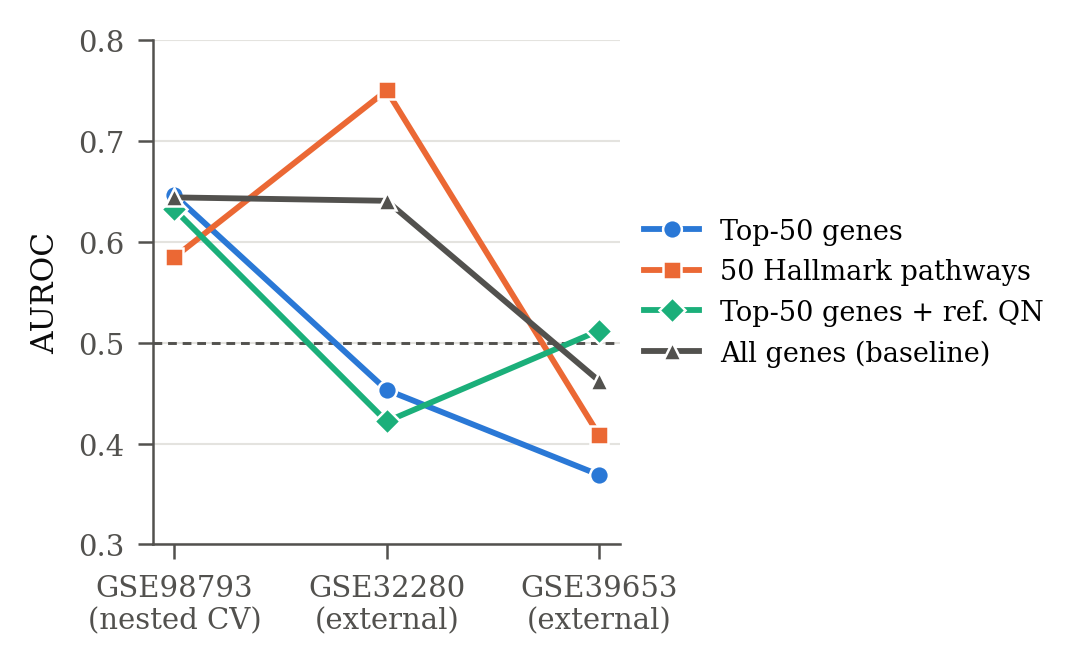
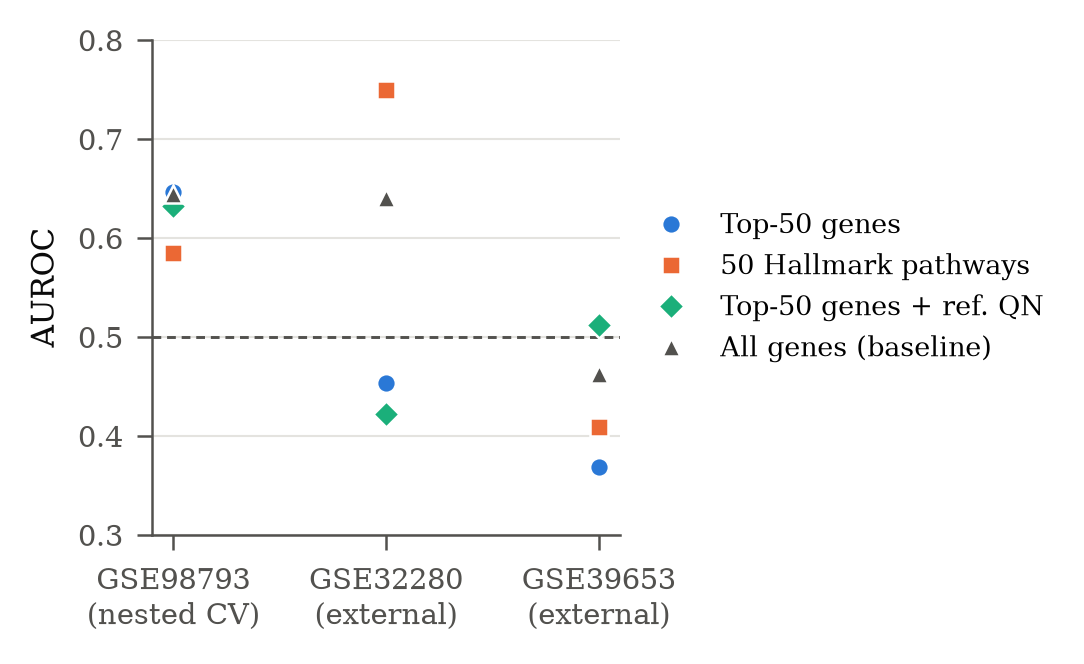
Clarify development versus external AUROC visualization

Changed region(s): [[0.0304, 0.0301, 0.6393, 0.9639], [0.5784, 0.3313, 0.9742, 0.5422]]

diff --git a/src/make_figures.py b/src/make_figures.py
@@ -156,7 +156,7 @@ def fig_dev_vs_external():
     ax.axhline(0.5, color=INK_2, linestyle=(0, (3, 2)), linewidth=0.7)
     for m in MODEL_ORDER:
         ys = [DEV_AUROC[m]] + [auc[(auc.cohort == c) & (auc.model == m)].estimate.iloc[0] for c in EXTERNAL]
-        ax.plot([0, 1, 2], ys, color=MODEL_COLOR[m], linewidth=1.4, marker=MODEL_MARKER[m],
+        ax.plot([0, 1, 2], ys, color=MODEL_COLOR[m], linestyle="none", marker=MODEL_MARKER[m],
                 markersize=4.5, markeredgecolor=SURFACE, markeredgewidth=0.6, label=MODEL_LABEL[m], zorder=3)
     ax.set_xticks([0, 1, 2])
     ax.set_xticklabels(["GSE98793\n(nested CV)", "GSE32280\n(external)", "GSE39653\n(external)"])
